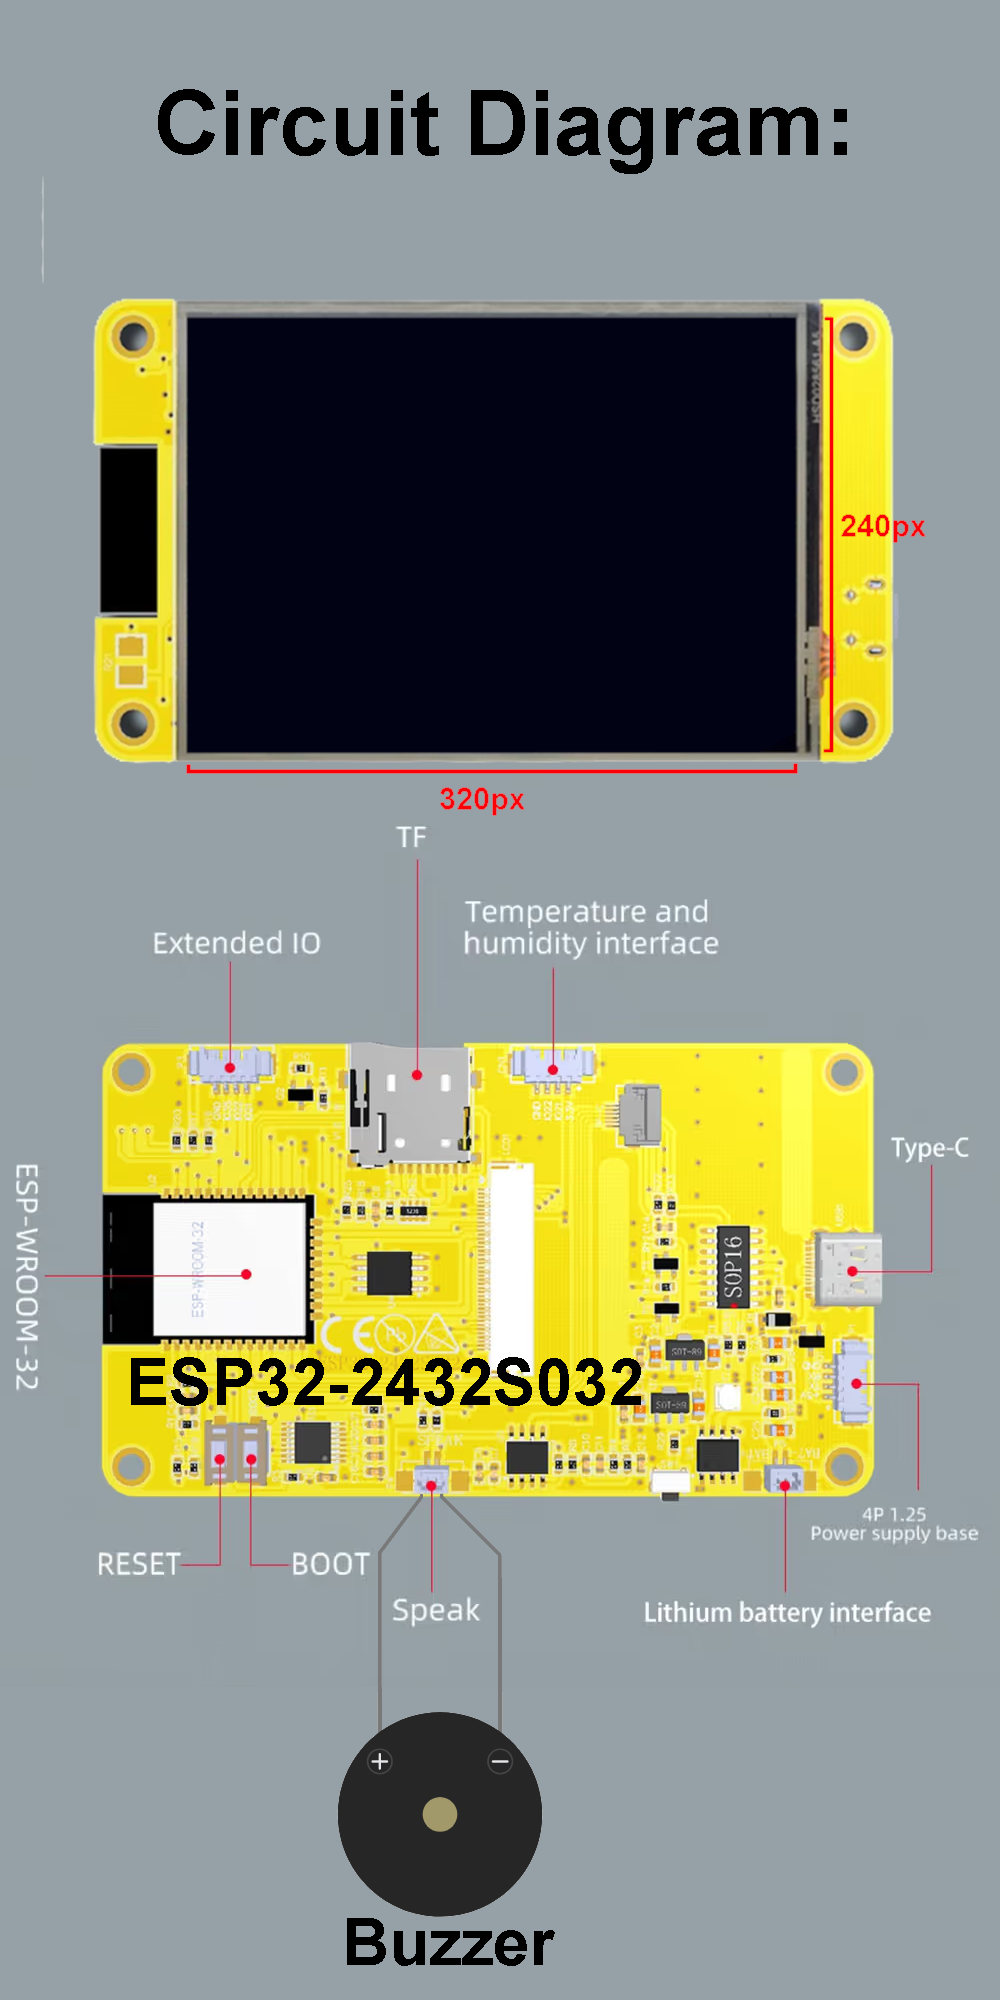
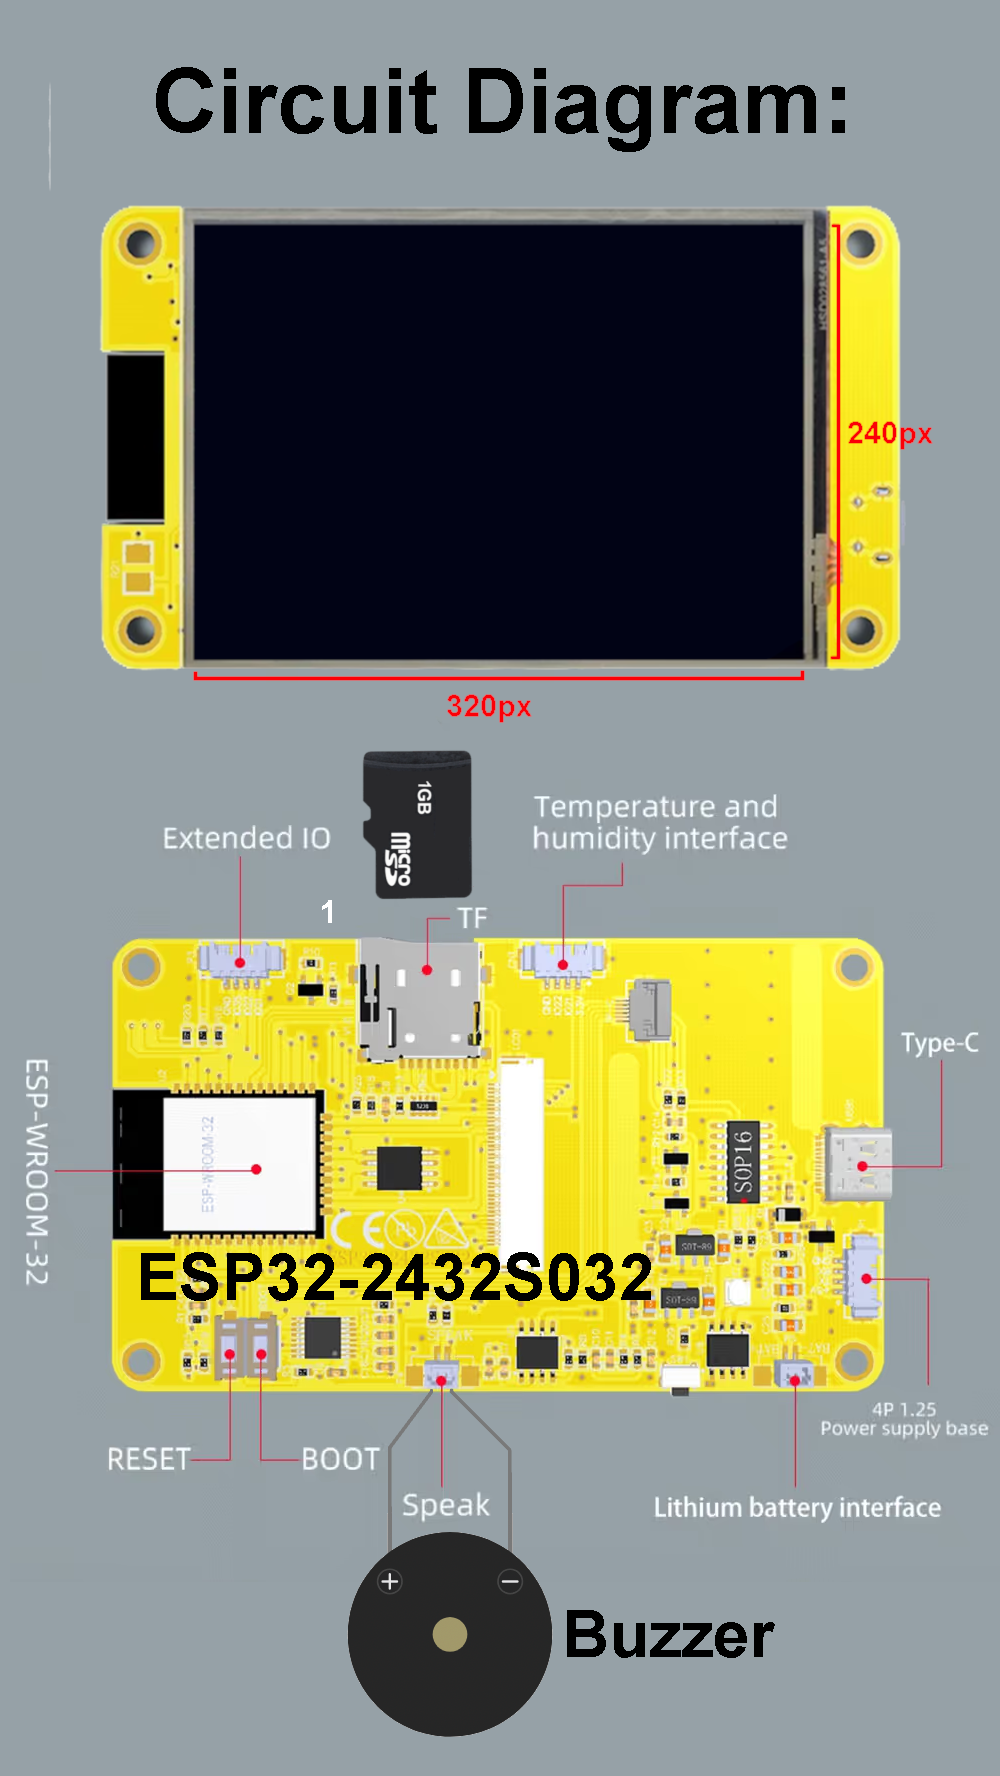
code beauty

Changed region(s): [[0.093, 0.031, 0.961, 0.991], [0.0, 0.5884, 0.062, 0.7123]]

diff --git a/ESP32/sound.h b/ESP32/sound.h
@@ -56,4 +56,9 @@ void playLossSound() {
     _playNote(NOTE_C3, noteDuration, restDuration/ 2 ); 
 }
 
+void stopBuzzer() {
+    ledcWrite(BUZZER_CHANNEL, 0); 
+    ledcDetachPin(melodyPin); 
+}
+
 #endif //SRC_SOUND_H

diff --git a/README.md b/README.md
@@ -1,23 +1,27 @@
-## XXXXX Project by :  
+## Cheap-Yellow-Display Project by : Yonatan, Gital, Sofiya
   
 ## Details about the project
+* An application to learn the letters of the alphabet for illiterate people
+* A game of entering a letter corresponding to the first letter of an image
+* Combining multiple features: LCD screen, touch, sound, canvas & timer bar
  
 ## Folder description :
-* ESP32: source code for the esp side (firmware).
-* Documentation: wiring diagram + basic operating instructions
-* Unit Tests: tests for individual hardware components (input / output devices)
-* flutter_app : dart code for our Flutter app.
-* Parameters: contains description of parameters and settings that can be modified IN YOUR CODE
-* Assets: link to 3D printed parts, Audio files used in this project, Fritzing file for connection diagram (FZZ format) etc
-
-## ESP32 SDK version used in this project: 
+* ESP32: source code for the esp side (firmware), and necessary header files
+* Documentation: wiring curcuit diagram image + basic operating instructions
+* Unit Tests: tests for individual hardware components: input/output devices
+* Parameters: description for settings which you can be modified IN THE CODE
 
 ## Arduino/ESP32 libraries used in this project:
-* XXXX - version XXXXX
-* XXXX - version XXXXX
-* XXXX - version XXXXX
+* LVGL - version 8.3.11
+* GFX Library for Arduino - version 1.6.1
+
+## HardWare:
+* ESP32-2432S032 (CYD LCD touch display)
+* Simple buzzer
+
 
 ## Connection diagram:
+![alt text]("Documentation/connection diagram/circuit_diagram.png")
 
 ## Project Poster:
  
